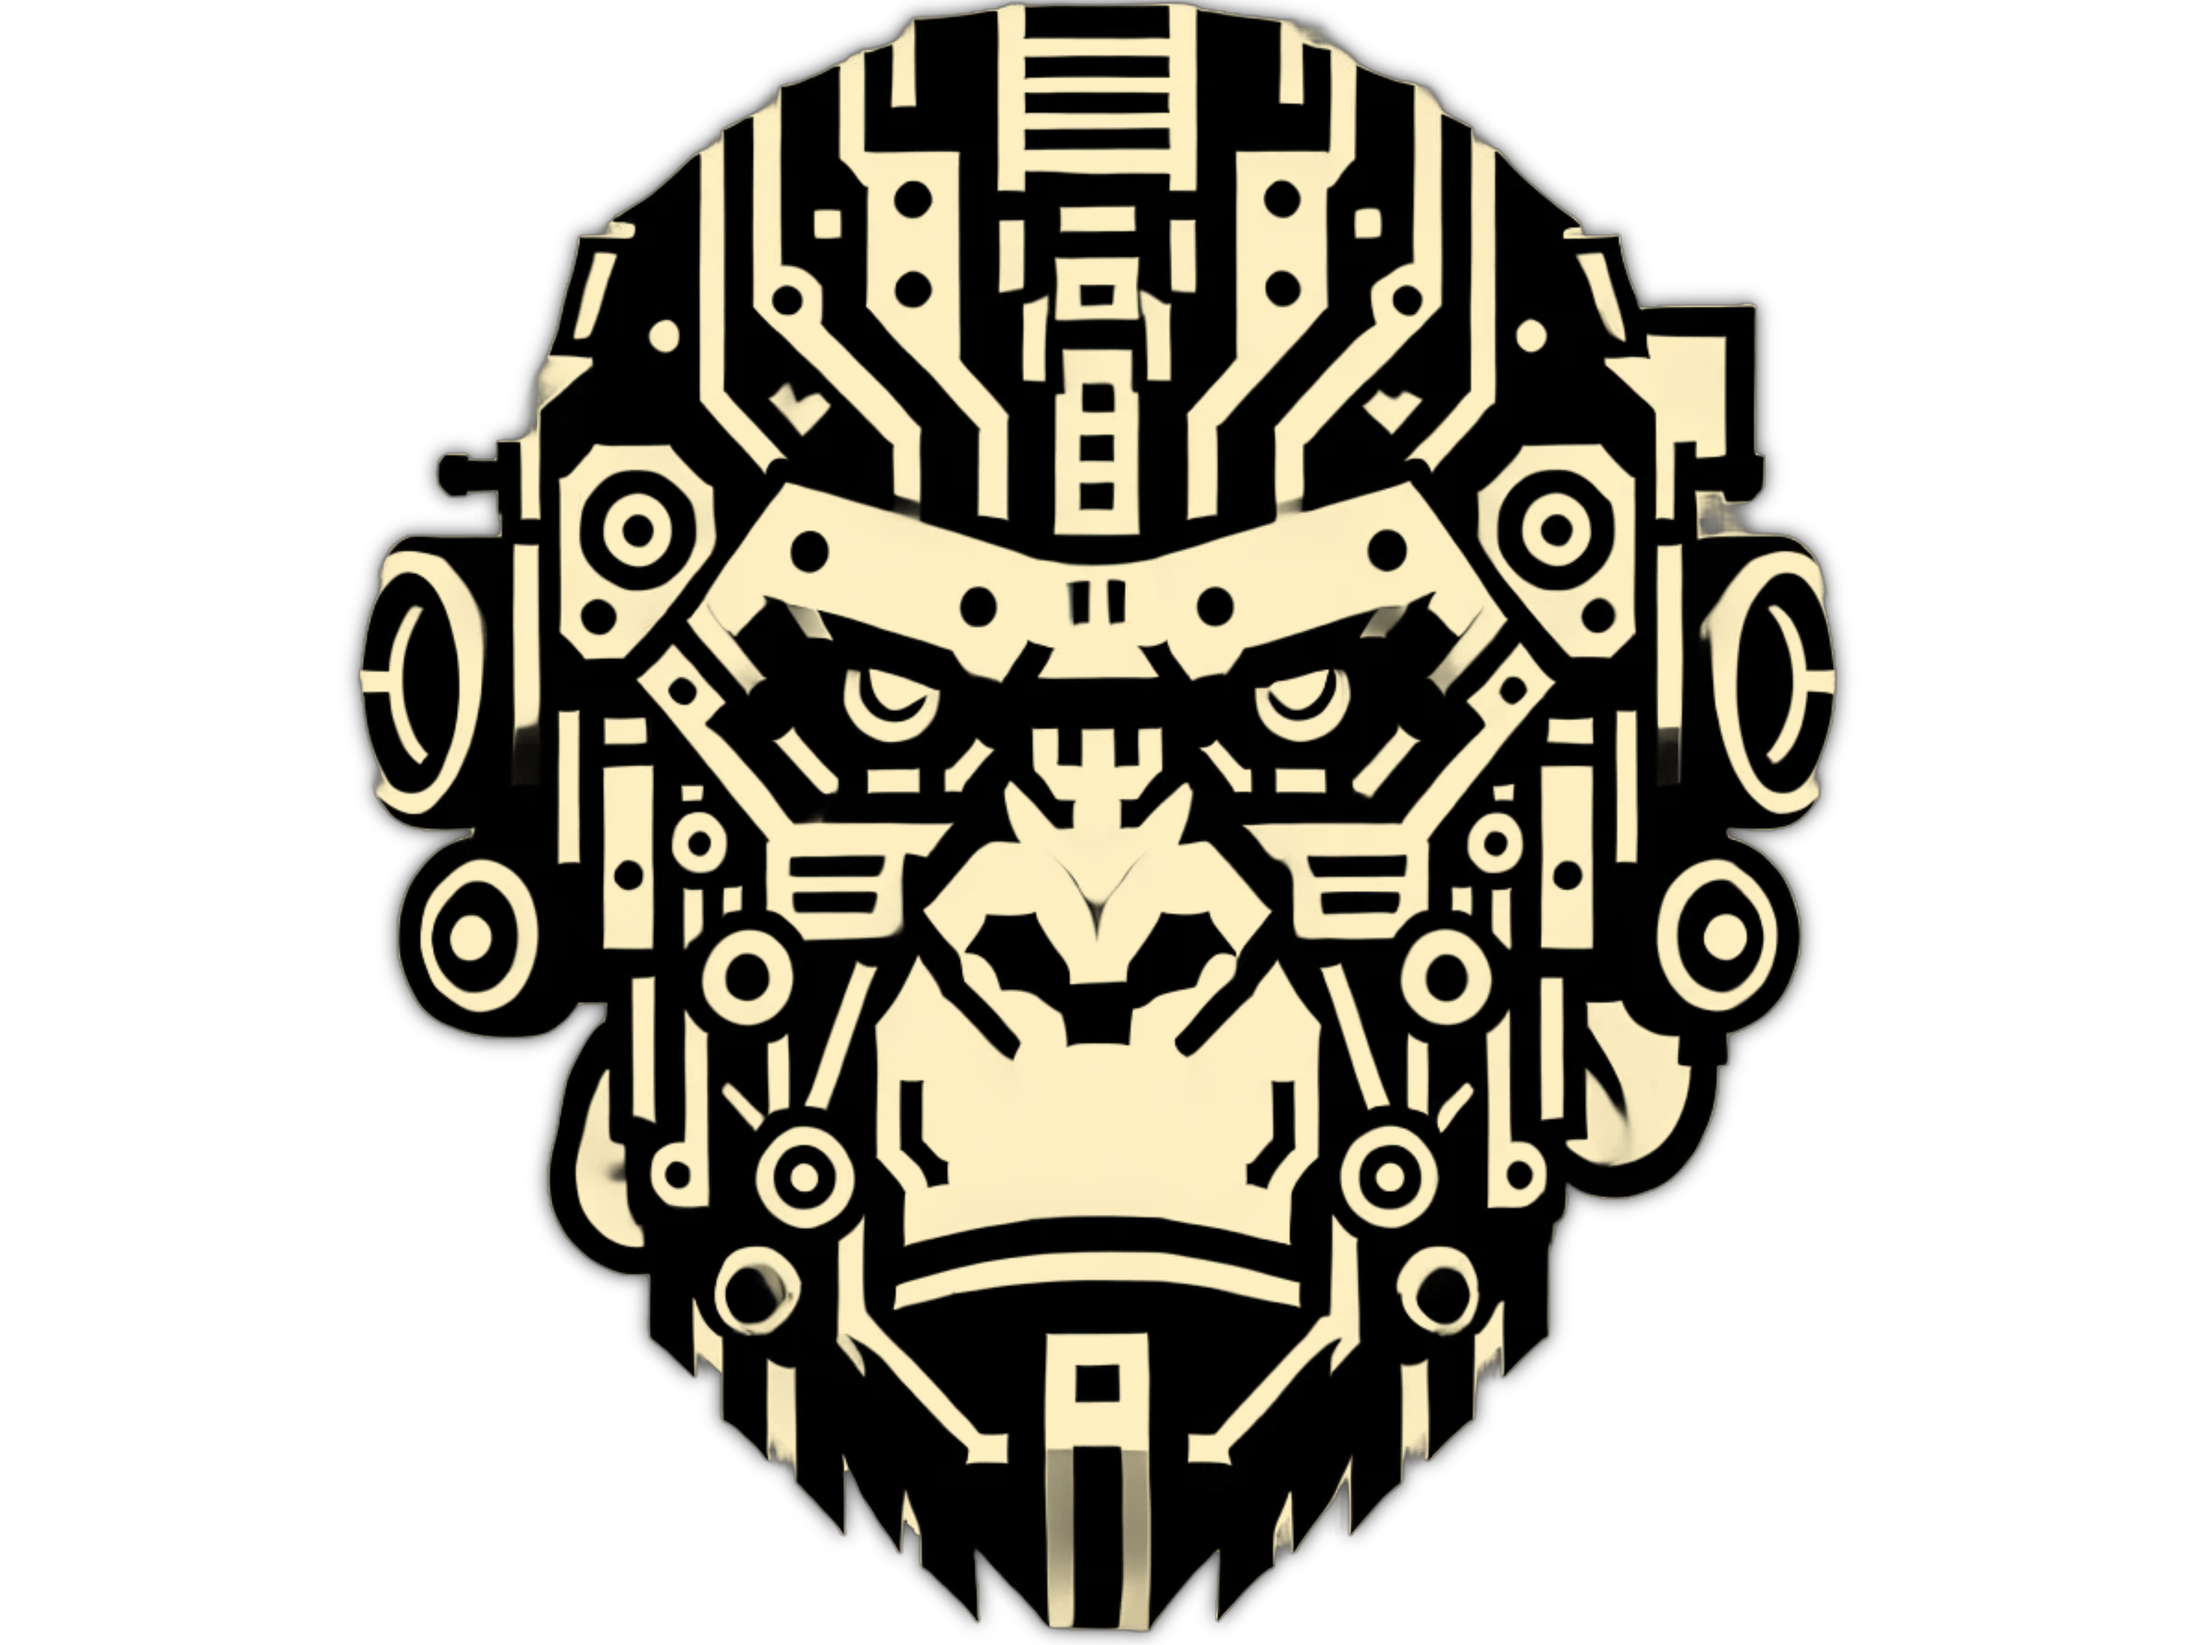
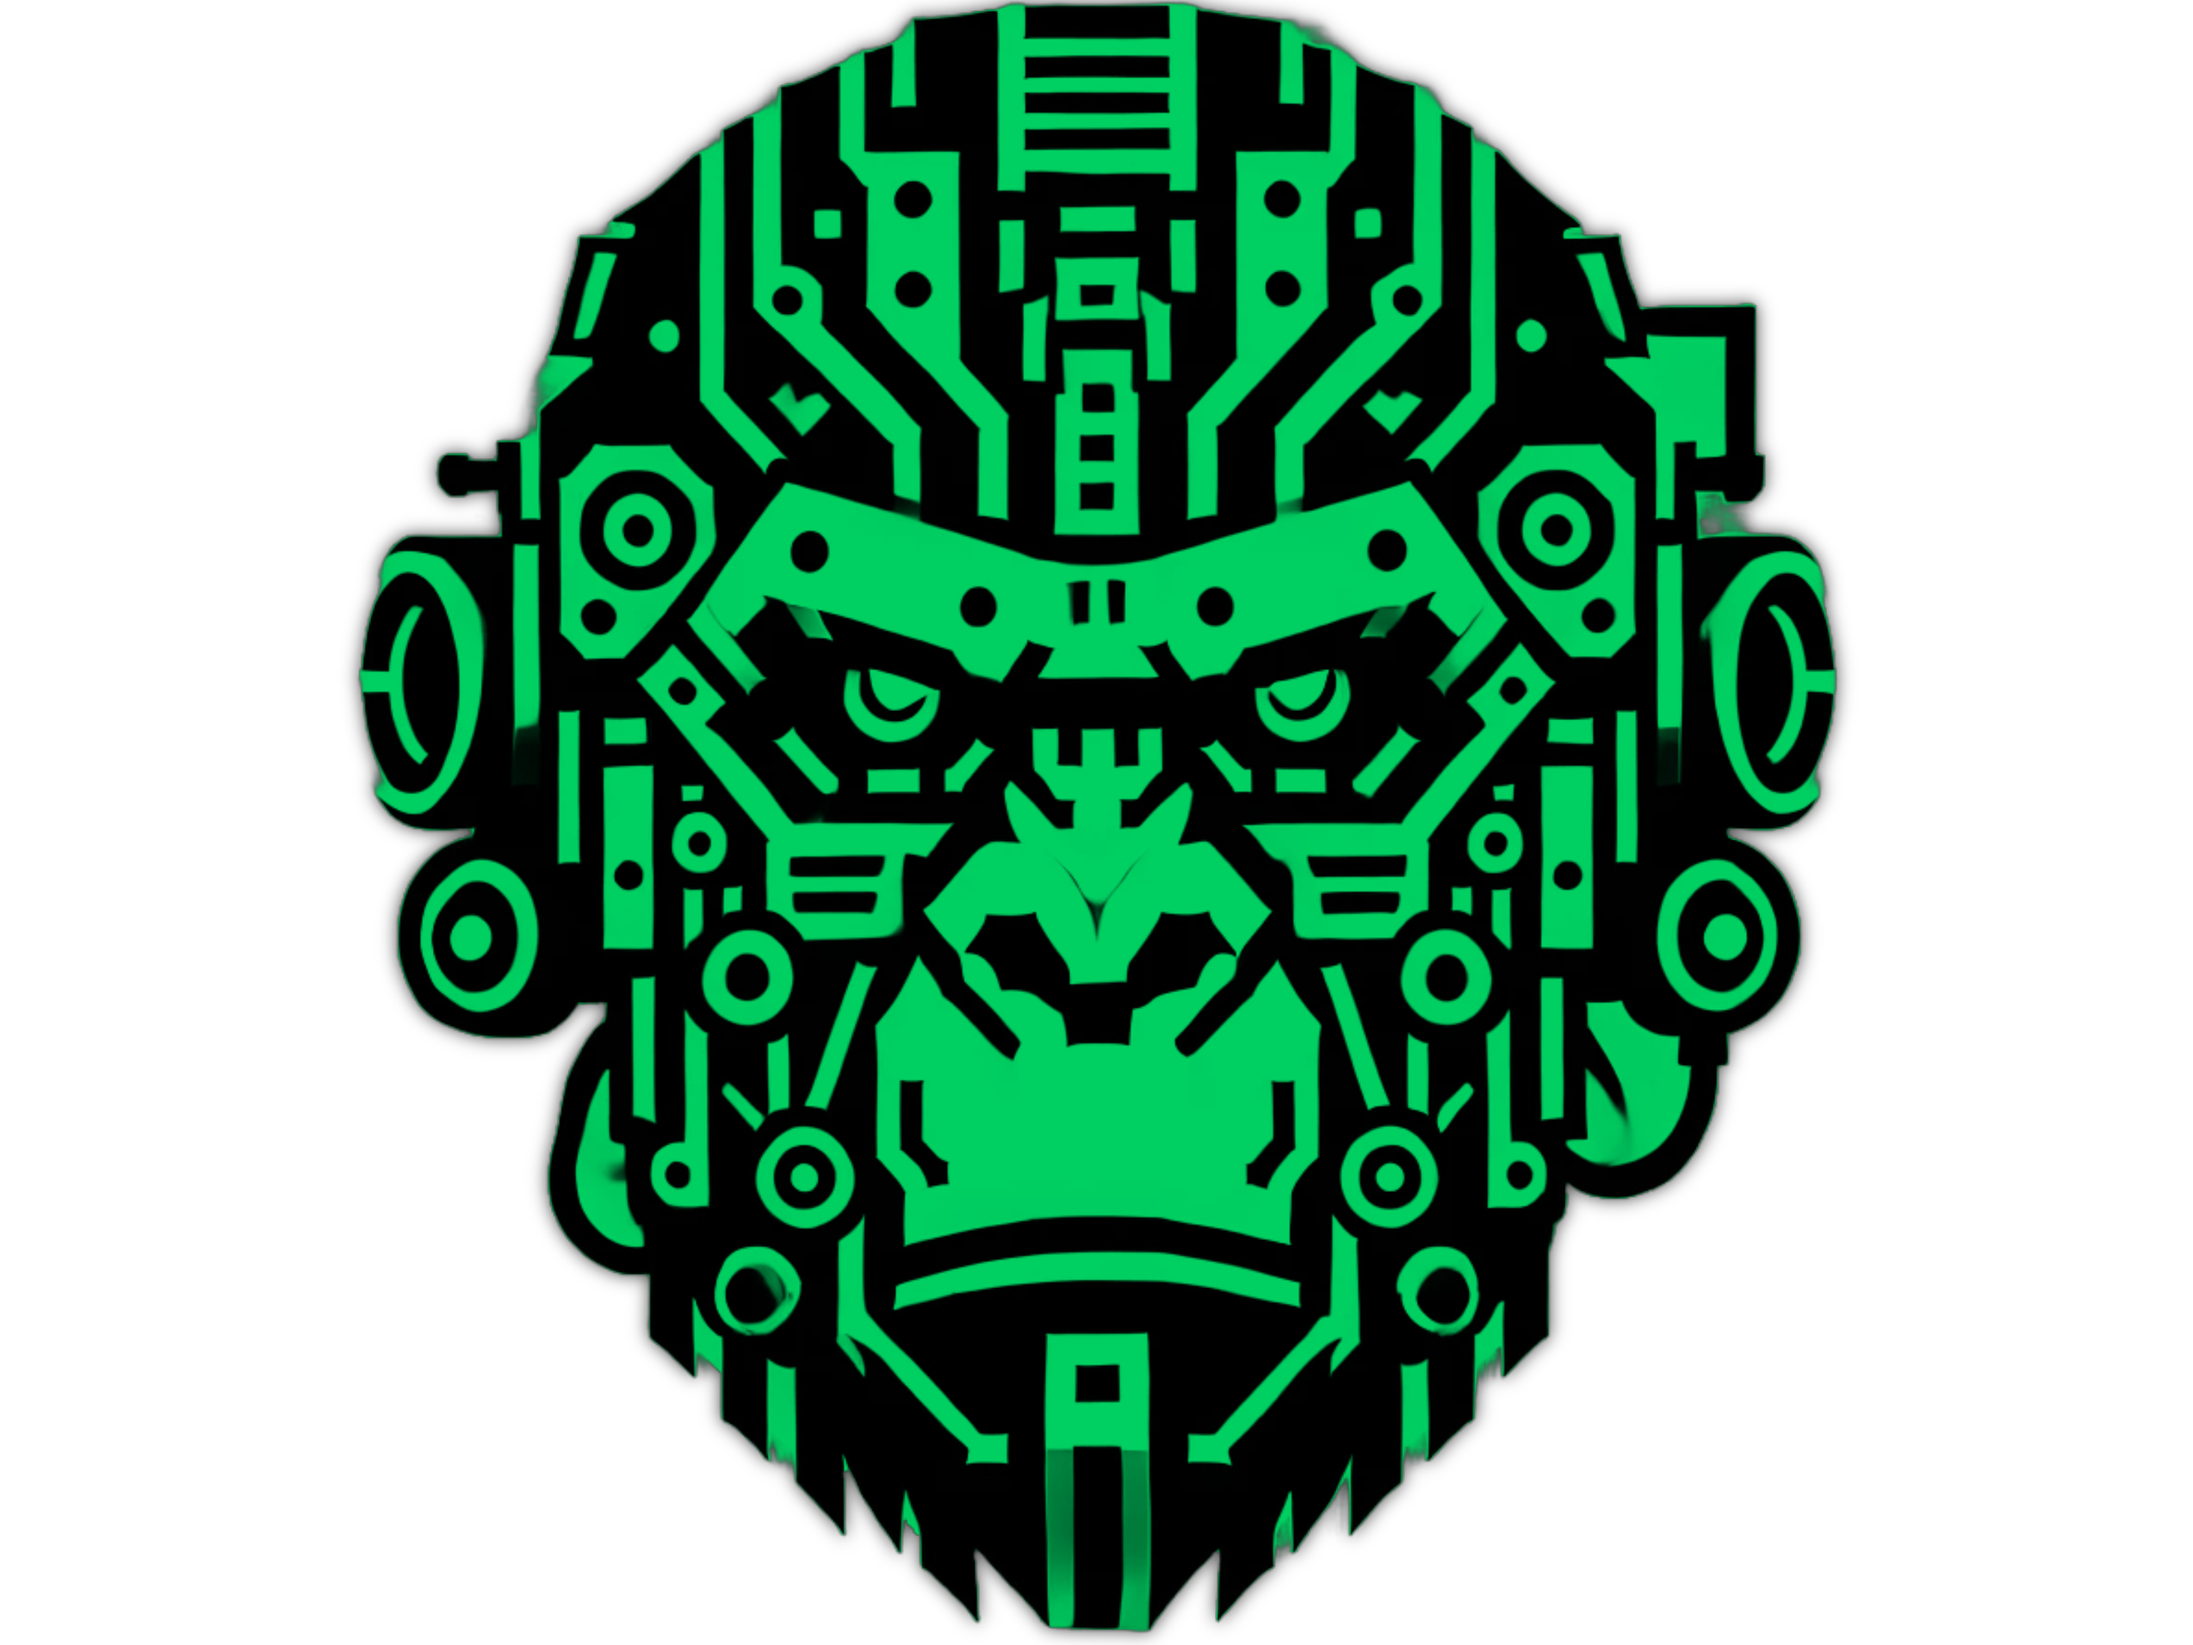
deleted code now verified it is working, updated KongAI head image, updated Navbar

diff --git a/kong-ai/app/(app)/layout.tsx b/kong-ai/app/(app)/layout.tsx
@@ -3,25 +3,16 @@
 import Navbar from "@/components/Navbar";
 import axios from 'axios'
 import { Assistant, UserThread } from "@prisma/client";
-// import { useCallback, useEffect, useState } from "react";
 import { useEffect } from "react";
 import { useAtom } from "jotai";
 import { assistantAtom, userThreadAtom } from "@/atoms";
 import toast, { Toaster } from "react-hot-toast";
-import useServiceWorker from "@/hooks/useServiceWorker";
-// import NotificationModal from "@/components/NotificationModal";
 
 export default function AppLayout({ children }: Readonly<{children: React.ReactNode; }>) {
 
     // Atom state
     const [, setUserThread] = useAtom(userThreadAtom);
     const [assistant, setAssistant] = useAtom(assistantAtom);
-
-    // State
-    // const [isNotificationModalVisible, setIsNotificationModalVisible] = useState(false)
-
-    // Hooks
-    useServiceWorker();
 
     useEffect(() => {
       if (assistant) return;
@@ -76,60 +67,10 @@ export default function AppLayout({ children }: Readonly<{children: React.ReactN
         getUserThread();
       }, [setUserThread]);
 
-      // useEffect(() => {
-      //   if ("Notification" in window) {
-      //     setIsNotificationModalVisible(Notification.permission === "default");
-      //     console.log("Notification permission:", Notification.permission);
-      //   }
-      // }, []);
-
-      // const handleNotificationModalClose = (didConstent: boolean) => {
-      //   setIsNotificationModalVisible(false);
-    
-      //   if (didConstent) {
-      //     toast.success("You will now receive notifications.");
-      //   }
-      // };
-
-      // const saveSubscription = useCallback(async () => {
-      //   const serviceWorkerRegistration = await navigator.serviceWorker.ready;
-      //   const subscription = await serviceWorkerRegistration.pushManager.subscribe({
-      //     userVisibleOnly: true,
-      //     applicationServerKey: process.env.NEXT_PUBLIC_VAPID_PUBLIC_KEY,
-      //   });
-    
-      //   try {
-      //     const response = await axios.post("/api/subscription", subscription);
-    
-      //     if (!response.data.success) {
-      //       console.error(response.data.message ?? "Unknown error.");
-      //       toast.error("Failed to save subscription.");
-      //       return;
-      //     }
-      //   } catch (error) {
-      //     console.error(error);
-      //     toast.error("Failed to save subscription.");
-      //   }
-      // }, []);
-    
-      // useEffect(() => {
-      //   if ("Notification" in window && "serviceWorker" in navigator) {
-      //     if (Notification.permission === "granted") {
-      //       saveSubscription();
-      //     }
-      //   }
-      // }, [saveSubscription]);
-
     return (
         <div className="flex flex-col w-full h-full">
           <Navbar/>
           {children}
-          {/* {isNotificationModalVisible && (
-            <NotificationModal
-              onRequestClose={handleNotificationModalClose}
-              saveSubscription={saveSubscription}
-            />
-          )} */}
           <Toaster />
         </div>
 

diff --git a/kong-ai/app/(app)/page.tsx b/kong-ai/app/(app)/page.tsx
@@ -11,7 +11,7 @@ import useServiceWorker from "@/hooks/useServiceWorker";
 import NotificationModal from "@/components/NotificationModal";
 
 
-const POLLING_FREQUENCY_MS = 1000;
+const POLLING_FREQUENCY_MS = 3000;
 
 
 function ChatPage() {
@@ -270,7 +270,7 @@ function ChatPage() {
       <div className="flex-grow overflow-y-scroll p-8 space-y-2">
         {/* LOADING STATE */}
         {fetching && messages.length === 0 && (
-          <div className="text-center font-bold">Fetching...</div>
+          <div className="text-center font-bold">Gathering Bananas...</div>
         )}
         {/* NO MESSAGES */}
         {messages.length === 0 && !fetching && (
@@ -311,7 +311,7 @@ function ChatPage() {
             className='ml-4 bg-green-700 text-white px-4 py-2 rounded-full focus:outline-none disabled:bg-gray-400'
             onClick={sendMessage}
             >
-              {sending ? "Sending..." : pollingRun ? "Polling Run..." : "Send"}
+              {sending ? "Sending..." : pollingRun ? "Awaking Kong..." : "Send"}
             </button>
         </div>
       </div>

diff --git a/kong-ai/components/Navbar.tsx b/kong-ai/components/Navbar.tsx
@@ -10,7 +10,7 @@ import kongAI from "../public/KongAI.png"
 const routes = [
   {
     name: "Chat",
-    path: "/chat",
+    path: "/",
   },
   {
     name: "Profile",
@@ -51,7 +51,7 @@ function Navbar() {
   return (
     <header className="sticky top-0 z-50 w-full bg-background/95 backdrop-blur supports-[backdrop-filter]:bg-background/60">
       <div className="p-4 flex flex-row justify-between items-center bg-black text-white ">
-        <Link href="/" className=" flex flex-rowitems-center gap-x-2">
+        <Link href="/home" className=" flex flex-rowitems-center gap-x-2">
           <Image height="30" src={kongAI} alt="kongAI image"/>
           <h1 className="text-2xl font-bold font-mono">
             <span className={`ml-1 animate-blink ${isVisible ? "border-r-2 border-white" : "border-r-0"}`}>{displayText}</span>
